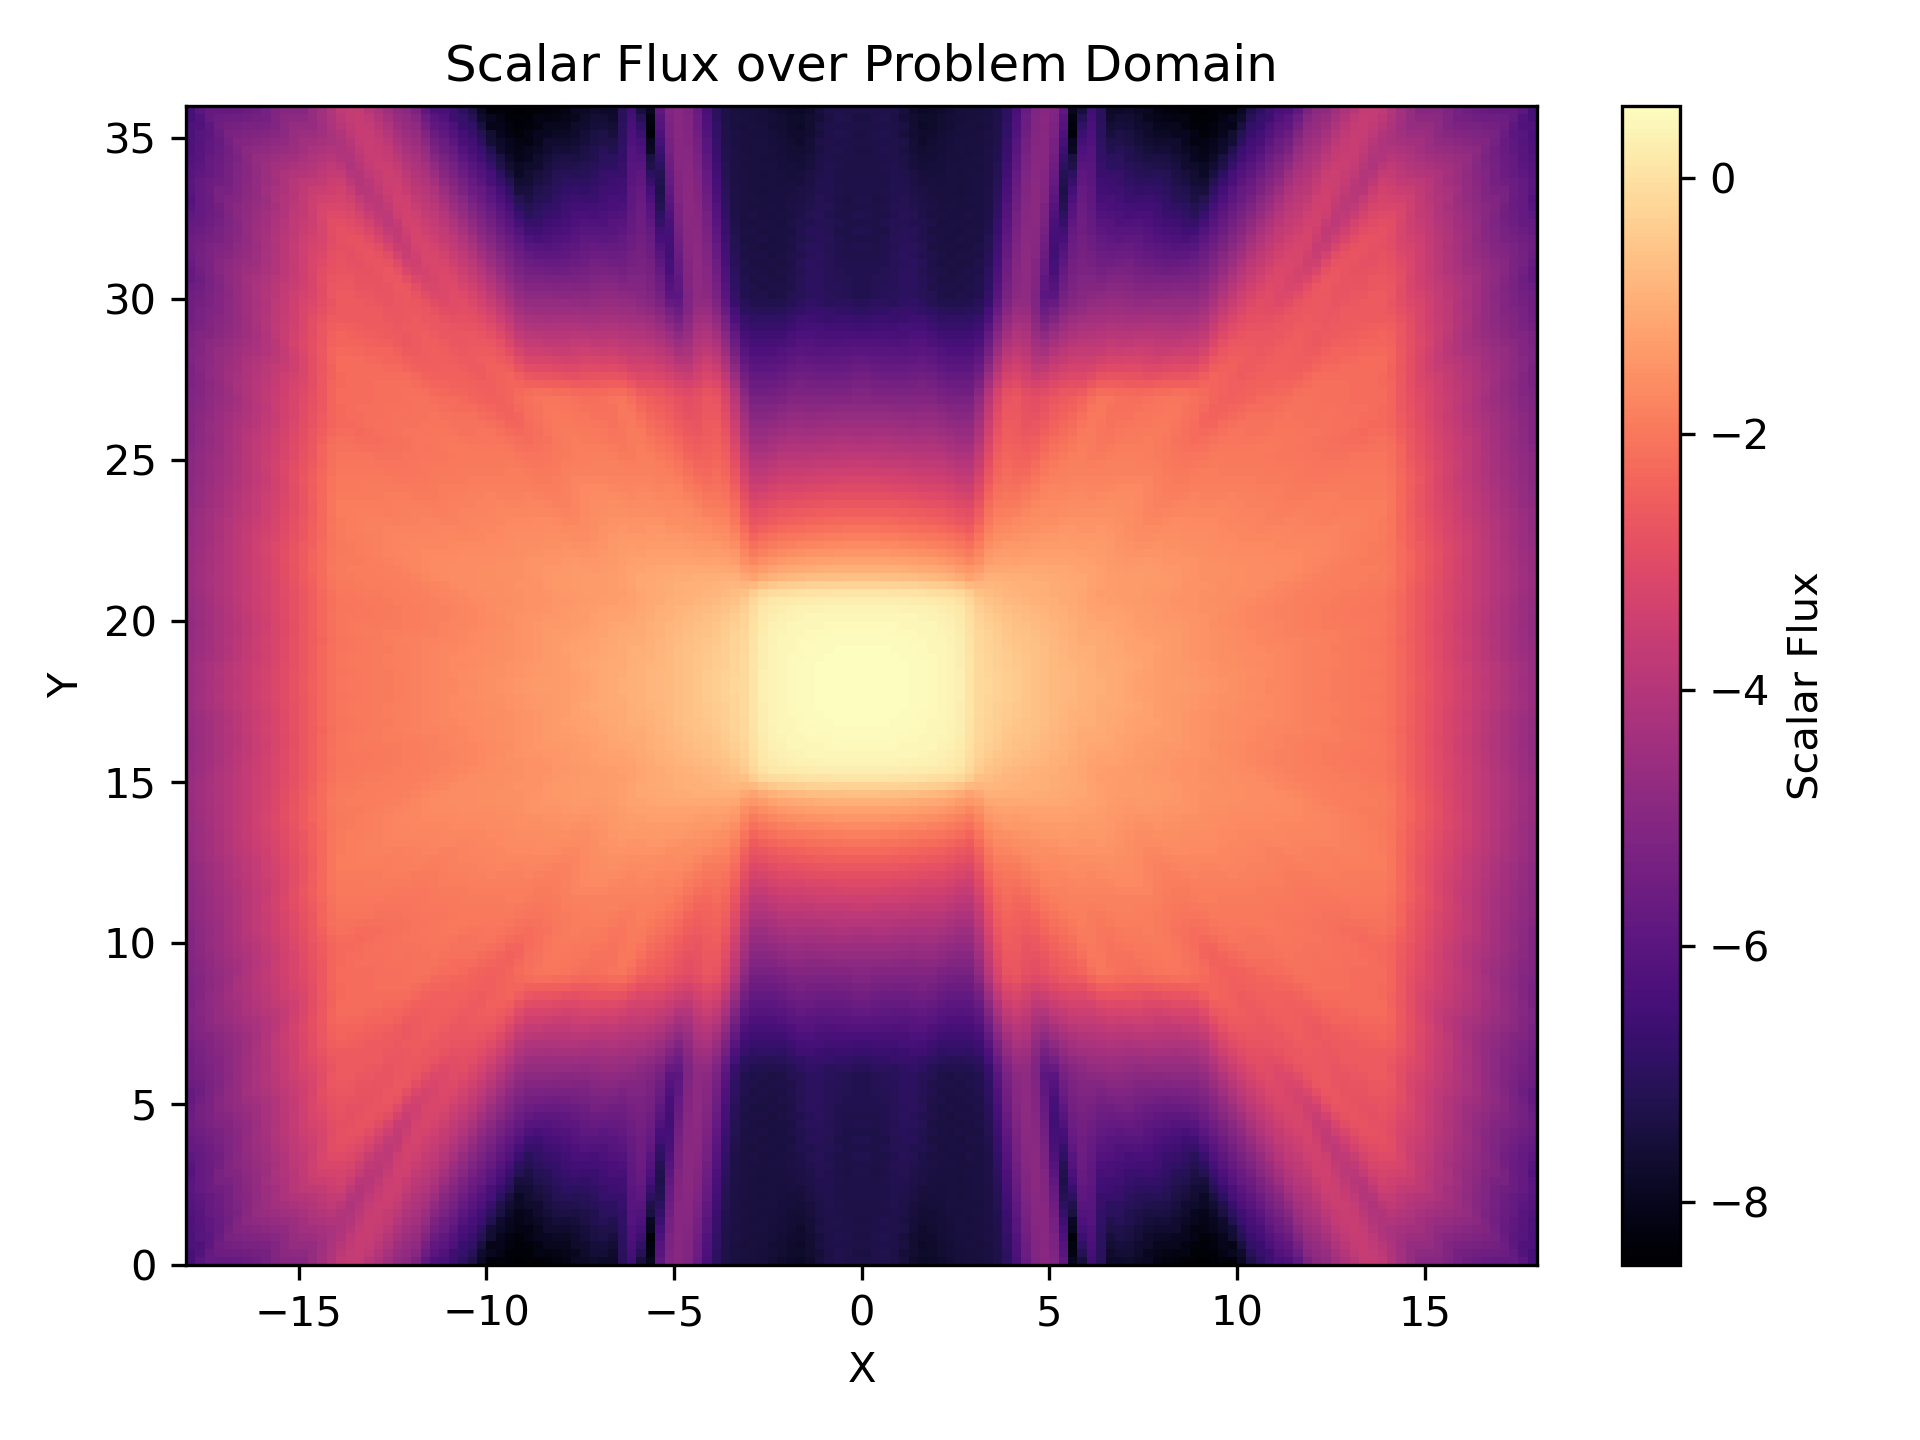
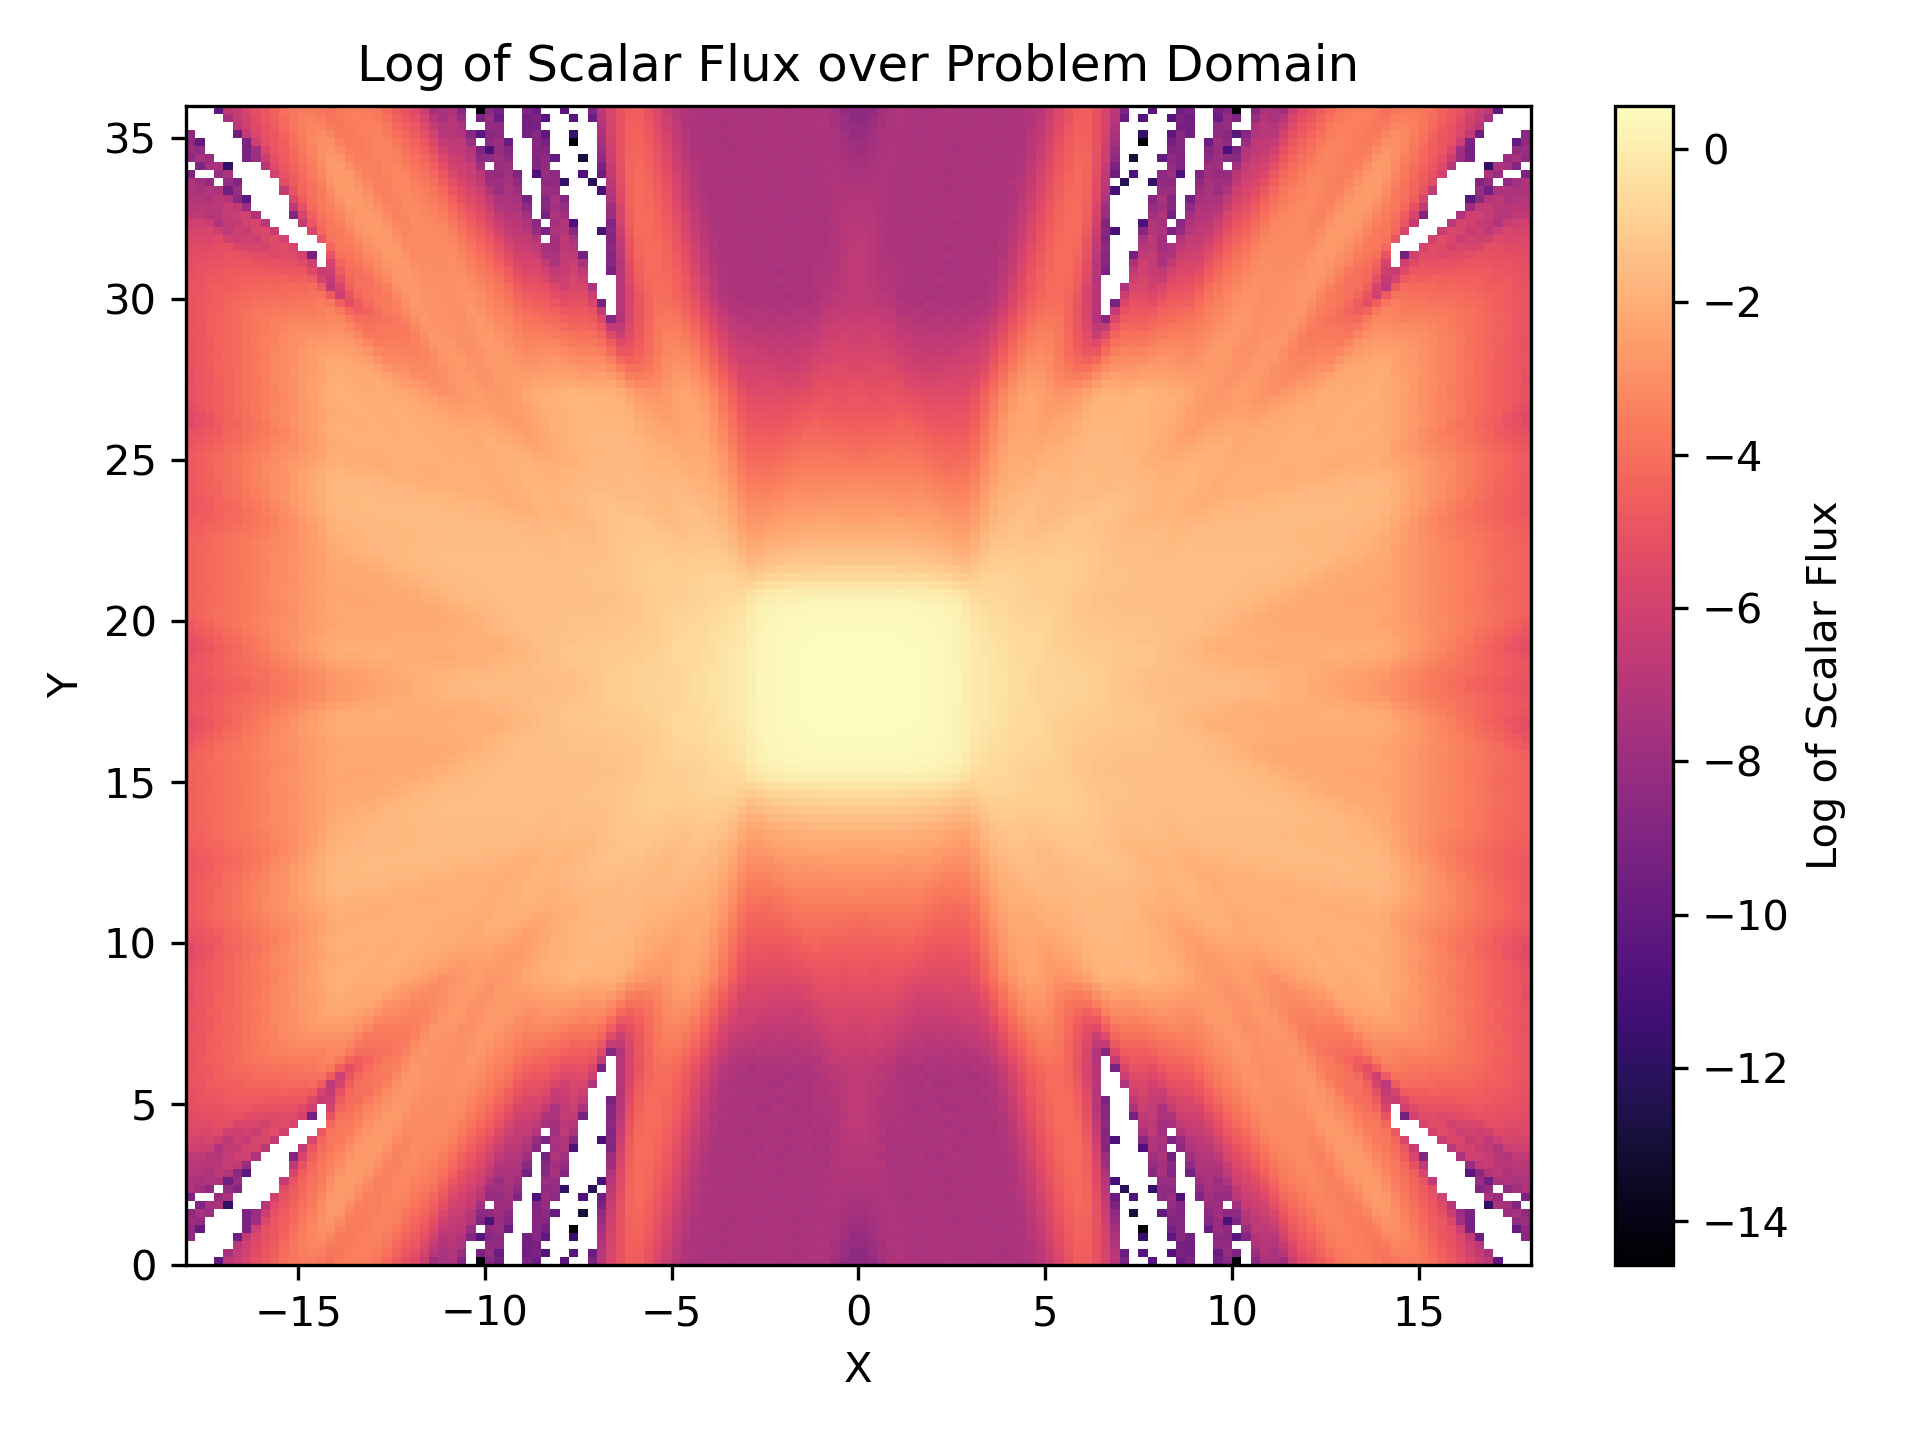
adding more log plots

diff --git a/src/main.cc b/src/main.cc
@@ -8,9 +8,9 @@ using namespace ar;
 
 int main() {
   // hard-code in the regions and materials for now
-  Material material_1(1, 0.19, 0.2, 6.4);
+  Material material_1(1, 0, 0.8, 6.4);
   Material material_2(2, 0, 0);
-  Material material_3(3, 0.19, 0.2);
+  Material material_3(3, 0, 0.8);
 
   //   // for non-scattering simulation, use:
   //   Material material_1(1, 0, 0.8, 6.4);
@@ -21,7 +21,7 @@ int main() {
   // assumed for all sides.
 
   double target_cell_width =
-      1.25;  // take multiples of this to get a grid convergence study
+      0.125 * 1.25;  // take multiples of this to get a grid convergence study
 
   RectangularRegion region_1(material_3, -10, 10, 5, 10, target_cell_width);
 
@@ -50,7 +50,7 @@ int main() {
       region_1, region_2, region_3,  region_4,  region_5,  region_6, region_7,
       region_8, region_9, region_10, region_11, region_12, region_13};
 
-  Simulation ar_simulation(regions, 24);
+  Simulation ar_simulation(regions, 8);
   //   ar_simulation.ExportCellsToCSV();
   ar_simulation.Run();
   ar_simulation.ExportResultsToCSV();

diff --git a/other_problems/duct.cc b/other_problems/duct.cc
@@ -9,9 +9,9 @@ using namespace ar;
 // replace main.cc with duct.cc and rename to main.cc, or copy this input
 int main() {
   // hard-code in the regions and materials for now
-  Material material_1(1, 0.19, 0.2, 6.4);
+  Material material_1(1, 0, 0.5, 1);
   Material material_2(2, 0, 0);
-  Material material_3(3, 0.19, 0.2);
+  Material material_3(3, 0, 0.5);
 
   //   // for non-scattering simulation, use:
   //   Material material_1(1, 0, 0.8, 6.4);
@@ -36,7 +36,7 @@ int main() {
   std::vector<RectangularRegion> regions = {
       region_1, region_2, region_3, region_4, region_5, region_6, region_7};
 
-  Simulation ar_simulation(regions, 16);
+  Simulation ar_simulation(regions, 8);
   //   ar_simulation.ExportCellsToCSV();
   ar_simulation.Run();
   ar_simulation.ExportResultsToCSV();

diff --git a/other_problems/dogleg.cc b/other_problems/dogleg.cc
@@ -48,7 +48,7 @@ int main() {
       region_7,  region_8,  region_9,  region_10, region_11, region_12,
       region_13, region_14, region_15, region_16, region_17};
 
-  Simulation ar_simulation(regions, 16);
+  Simulation ar_simulation(regions, 8);
   //   ar_simulation.ExportCellsToCSV();
   ar_simulation.Run();
   ar_simulation.ExportResultsToCSV();
